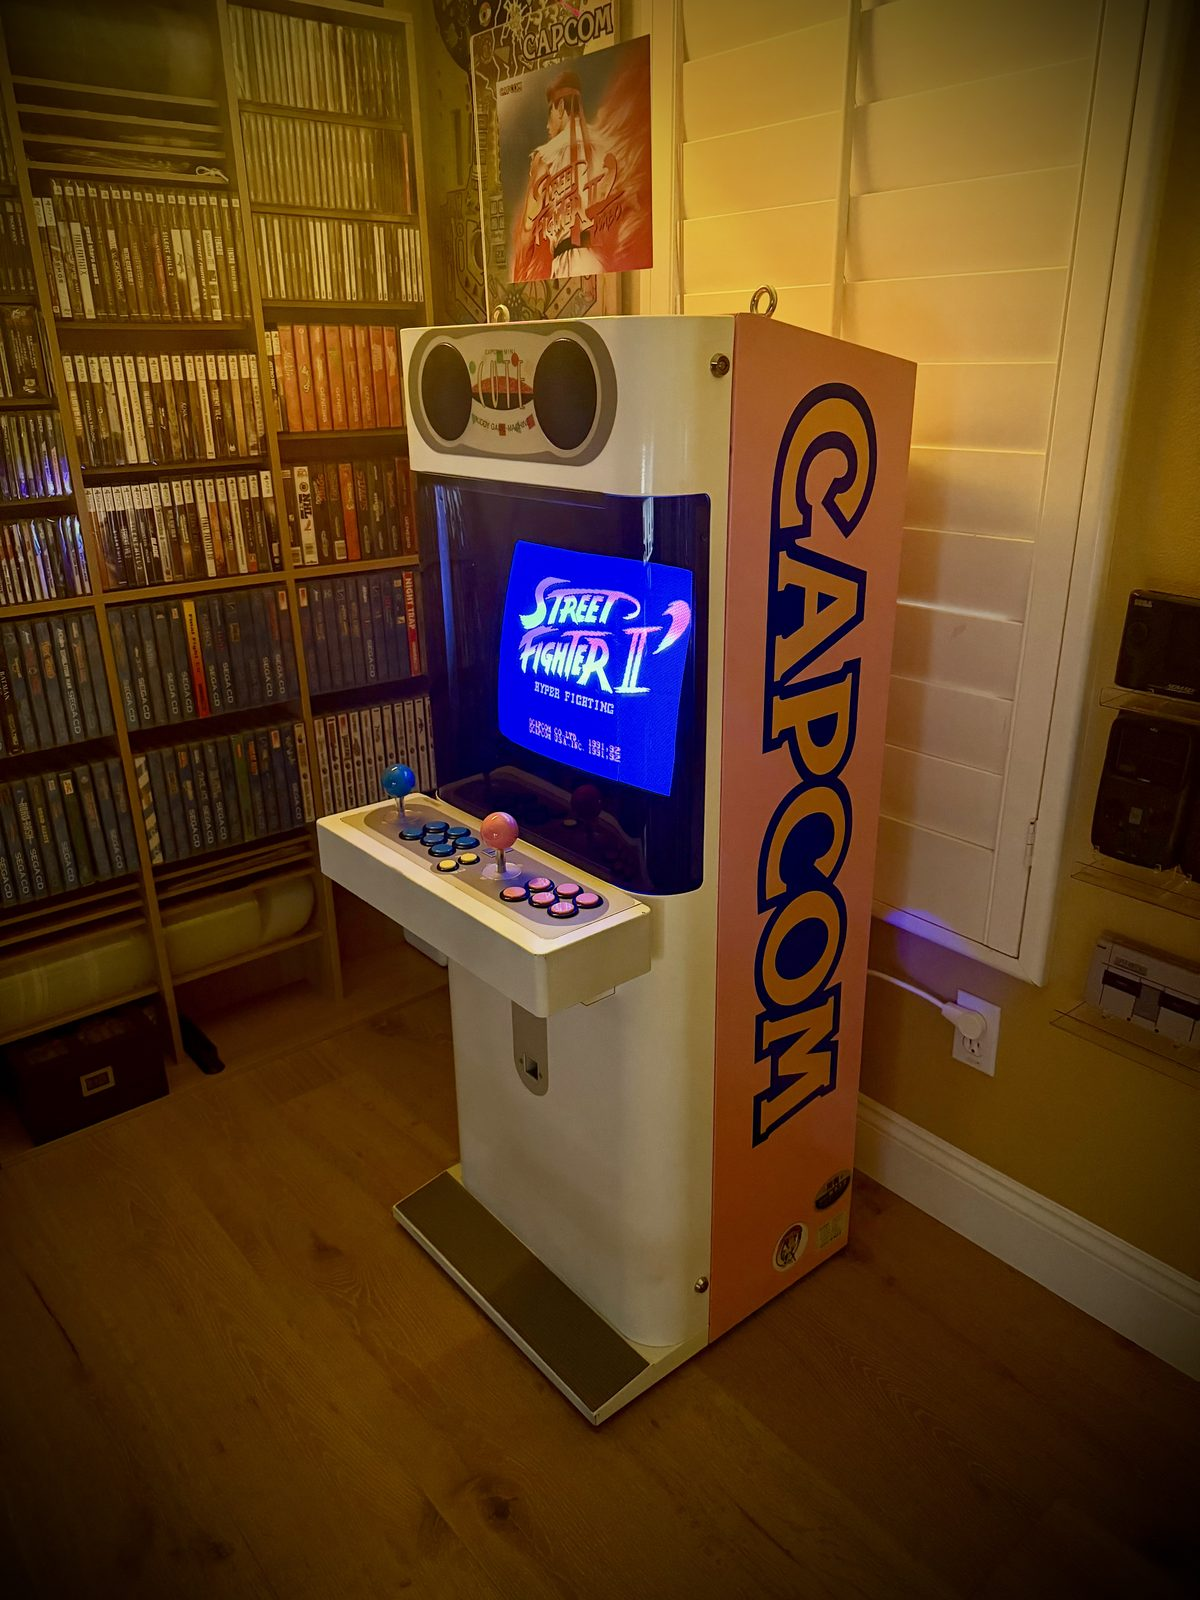
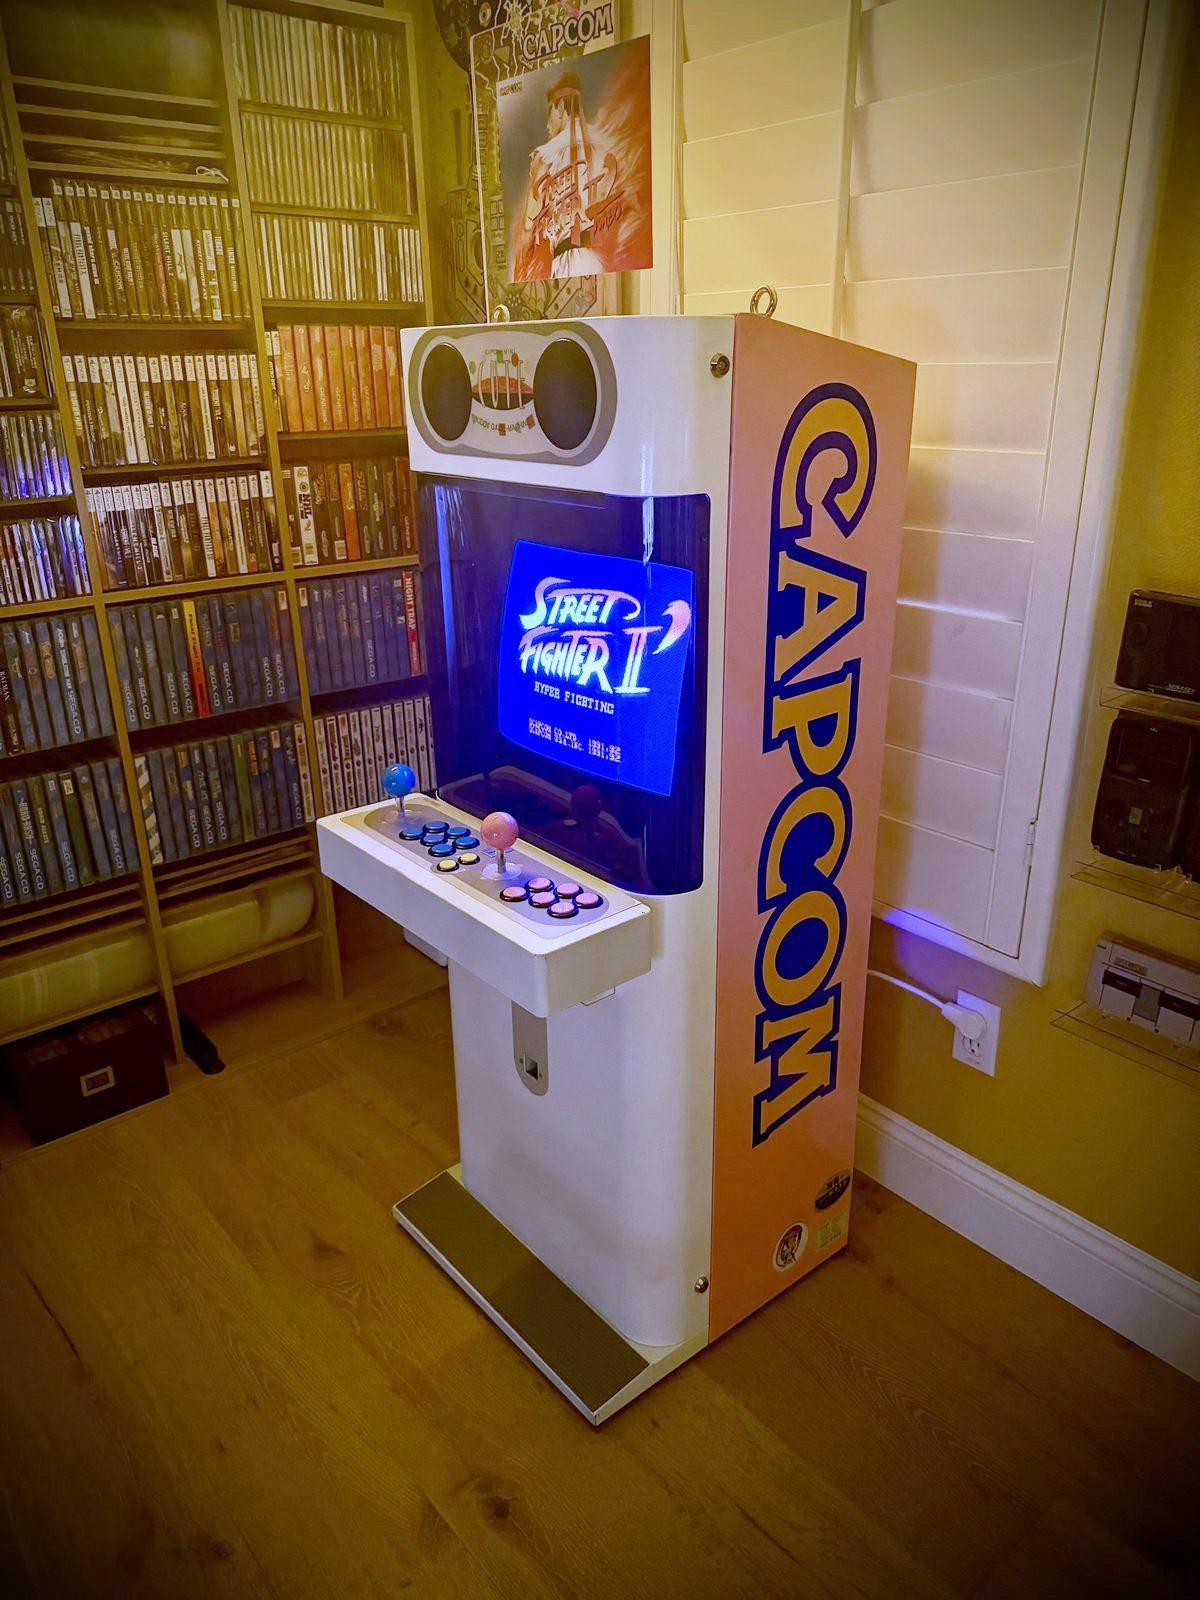
Correct the white balance on the Mini Cute side shot
The game room's tungsten light rendered the pink CAPCOM panel orange. Balanced
by mapping the panel body colour onto the same panel in mini-cute.jpg, which
was shot under neutral light - a luminance-preserving channel gain, so the wood
floor and shelves stay warm while the cabinet reads white and the panel reads
pink. Balancing off the white door instead overshot and pushed the panel
lavender; matching whole-image means pushed the walls green.

Both references carry ?v=2, since /media is CDN cached and an in-place swap
without cache-busting has pinned stale bytes twice before.

diff --git a/assets/gallery-data.js b/assets/gallery-data.js
@@ -13,7 +13,7 @@ const GALLERY = [
   { type: "image", src: "media/2026/sign-kaybee.jpg", title: "Kay\u00b7Bee \u00d7 World of Nintendo", caption: "The co-branded fiber optic with both panels lit \u2014 mall-era retail glow, intact", cat: "signage" },
   { type: "image", src: "media/2026/consoles-handhelds.jpg", title: "The handhelds wall", caption: "Game Gear and Nomad up top, the DMG and the clamshells below, all on acrylic", cat: "consoles" },
   { type: "image", src: "media/2026/redtent-screen.jpg", title: "Dr. Mario, insert coin", caption: "The restored Red Tent back in service \u2014 toppers on the canopy, instruction card in the window", cat: "arcade" },
-  { type: "image", src: "media/2026/minicute-side.jpg", title: "CAPCOM down the side", caption: "The Mini Cute's full-height side art, Street Fighter II running", cat: "arcade" },
+  { type: "image", src: "media/2026/minicute-side.jpg?v=2", title: "CAPCOM down the side", caption: "The Mini Cute's full-height side art, Street Fighter II running", cat: "arcade" },
   { type: "image", src: "media/2026/collectibles-shelf.jpg", title: "The shelf of accomplices", caption: "Gundam, Rick and Morty, and a full Thundercats bench keeping watch over the library", cat: "misc" },
   { type: "image", src: "media/2026/bvm-20e1u.jpg", title: "BVM-20E1U", caption: "The primary broadcast chassis in the garage rack, AMS-100 on top — two BKM slots still open", cat: "monitors" },
   { type: "image", src: "media/2026/bvm-a14f5u.jpg", title: "BVM-A14F5U", caption: "Fully kitted: all three card slots filled, control panel and keypad flanking the tube", cat: "monitors" },

diff --git a/mini-cute.html b/mini-cute.html
@@ -54,7 +54,7 @@
     <h2 class="sec">The cabinet today</h2>
     <div class="masonry">
       <figure class="shot"><img src="media/thumbs/minicute-portrait.jpg" data-full="media/2026/minicute-portrait.jpg" alt="Capcom Mini Cute candy cabinet head on, Street Fighter II on the screen and a Capcom poster above" loading="lazy"><figcaption><b>Head on</b> — the whole reason candy cabs are shaped the way they are</figcaption></figure>
-      <figure class="shot"><img src="media/thumbs/minicute-side.jpg" data-full="media/2026/minicute-side.jpg" alt="The Mini Cute from the side showing the full-height CAPCOM side art, Street Fighter II on the screen" loading="lazy"><figcaption><b>CAPCOM down the side</b> — the side art is the whole reason to stand here</figcaption></figure>
+      <figure class="shot"><img src="media/thumbs/minicute-side.jpg?v=2" data-full="media/2026/minicute-side.jpg?v=2" alt="The Mini Cute from the side showing the full-height CAPCOM side art, Street Fighter II on the screen" loading="lazy"><figcaption><b>CAPCOM down the side</b> — the side art is the whole reason to stand here</figcaption></figure>
       <figure class="shot"><img src="media/thumbs/minicute-screen.jpg" data-full="media/2026/minicute-screen.jpg" alt="Close-up of the Mini Cute screen showing the Street Fighter II Hyper Fighting title with FREE PLAY below it" loading="lazy"><figcaption><b>Free play, always</b> — Hyper Fighting on the tube, no coin required</figcaption></figure>
     </div>
 
